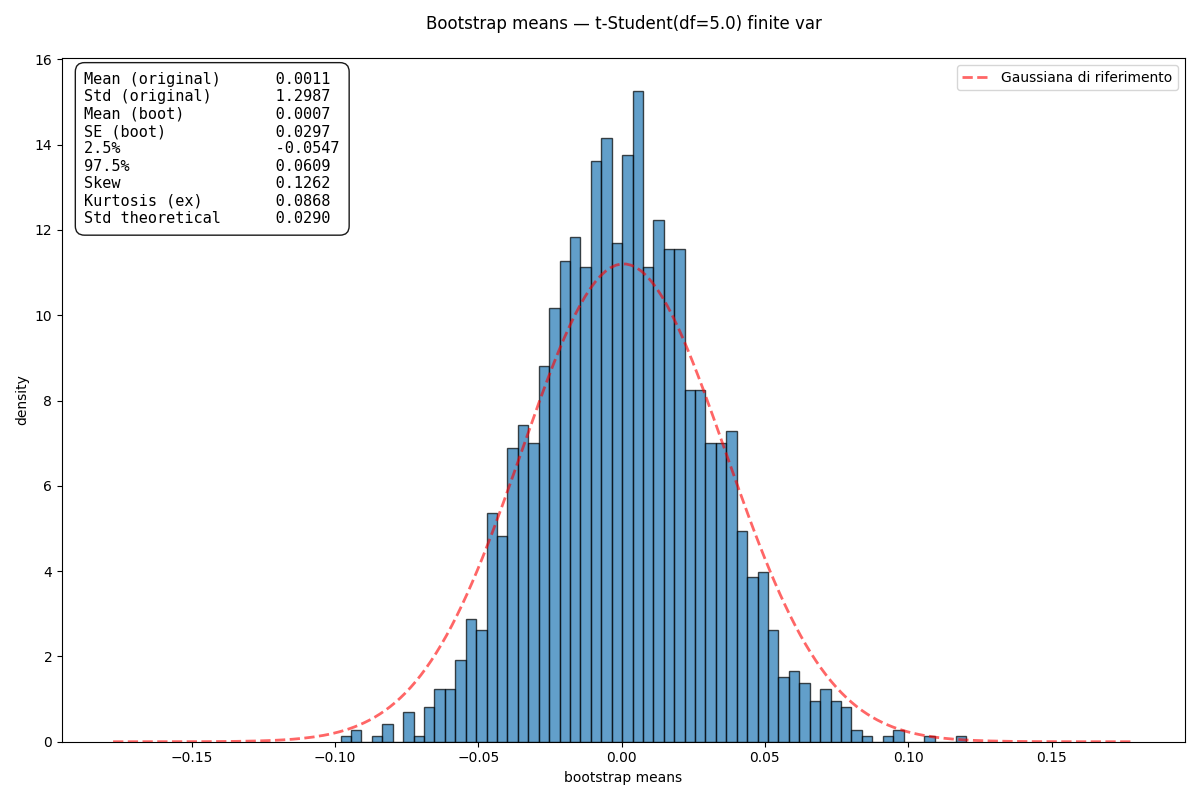
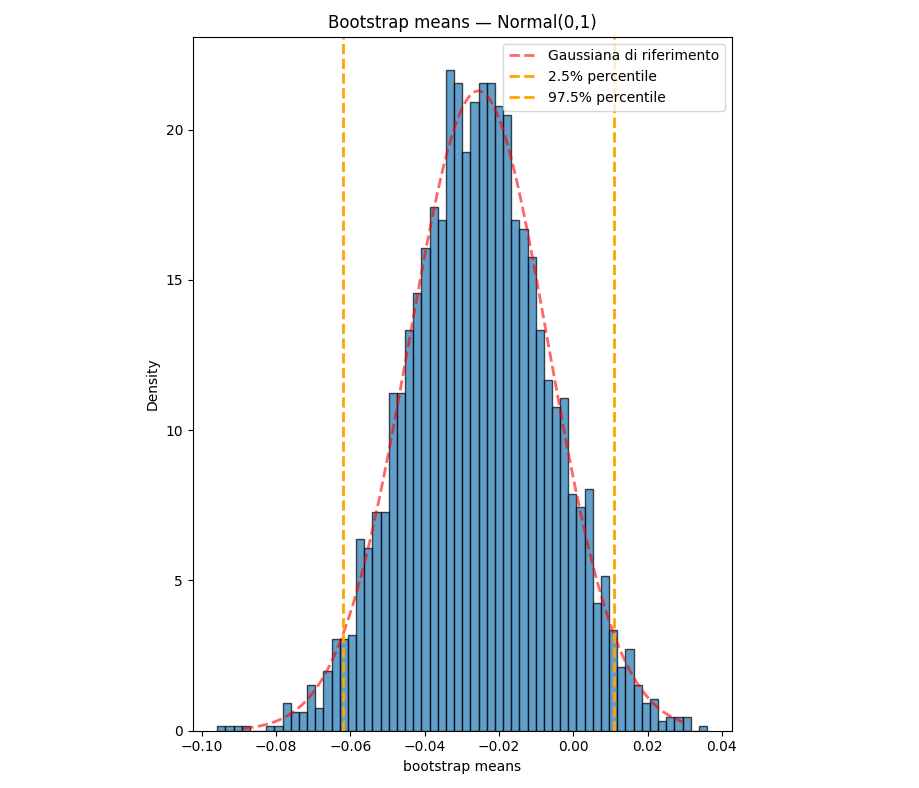
add pics and refined assignment

diff --git a/Assignment-Memory.py b/Assignment-Memory.py
@@ -2,6 +2,7 @@ import numpy as np
 import matplotlib.pyplot as plt
 from scipy import stats
 from scipy.linalg import toeplitz, cholesky
+from scipy.stats import norm
 
 rng = np.random.default_rng(42)
 
@@ -15,7 +16,7 @@ def bootstrap_means(x, B, rng=None):
     idx = rng.integers(0, n, size=(B, n))
     return x[idx].mean(axis=1)
 
-def summarize_bootstrap(means, label, original=None):
+def summarize_bootstrap(means, label, original=None, population=None):
     boot_mean = float(np.mean(means))
     boot_std = float(np.std(means, ddof=1))
     summary = {
@@ -34,6 +35,11 @@ def summarize_bootstrap(means, label, original=None):
             "original_mean": float(np.mean(original)),
             "original_std": float(sd),
             "std_theoretical": float(sd / np.sqrt(l))
+        })
+    if population is not None:
+        summary.update({
+            "population_mean": float(np.mean(population)),
+            "population_std": float(np.std(population, ddof=0))
         })
     return summary
 
@@ -58,25 +64,61 @@ def print_summary(summary):
     for key, label in keys:
         print(f"{label:<20} {fmt(summary.get(key))}")
 
-# Plot  
-def plot_means(title, means, bins=60):
+# Plot 
+def _fmt(x): return f"{x:.4f}" if (x is not None) else "—"
+
+def plot_with_stats(title, means, summary, bins=60):
     plt.figure(figsize=(12, 8))
     plt.hist(means, bins=bins, density=True, alpha=0.7, edgecolor="black")
 
     mu, sigma = np.mean(means), np.std(means, ddof=1)
-    x_vals = np.linspace(np.percentile(means, 0.1), np.percentile(means, 99.9), 300)
-    plt.plot(x_vals, stats.norm.pdf(x_vals, mu, sigma), 'r--', lw=2, alpha=0.6, label="Gaussiana di riferimento")
+    x_vals = np.linspace(mu - 6*sigma, mu + 6*sigma, 200)
+    plt.plot(x_vals, norm.pdf(x_vals, mu, sigma*1.2), 'r--', lw=2, alpha=0.6, label="Gaussiana di riferimento")
 
-    # percentili 2.5 e 97.5
-    plt.axvline(np.percentile(means, 2.5), color='orange', linestyle='--', lw=2, label='2.5% percentile')
-    plt.axvline(np.percentile(means, 97.5), color='orange', linestyle='--', lw=2, label='97.5% percentile')
+    # percentile lines (2.5% and 97.5%)
+    p_low = np.percentile(means, 2.5)
+    p_high = np.percentile(means, 97.5)
+    plt.axvline(p_low, color='orange', linestyle='--', lw=2, label='2.5% percentile')
+    plt.axvline(p_high, color='orange', linestyle='--', lw=2, label='97.5% percentile')
 
-    plt.title(f"Bootstrap means — {title}")
+    # optional: annotate percentile values slightly above x-axis
+    ymin, ymax = plt.gca().get_ylim()
+    y_annot = ymax * 0.08  # place annotation a bit above the x-axis
+    plt.text(p_low, y_annot, f"{p_low:.4f}", rotation=90, va='bottom', ha='right', color='orange', fontsize=9, family='monospace')
+    plt.text(p_high, y_annot, f"{p_high:.4f}", rotation=90, va='bottom', ha='left', color='orange', fontsize=9, family='monospace')
+
+    rows = []
+    if summary.get("population_mean") is not None:
+        rows.append(("Mean (population)", summary["population_mean"]))
+        rows.append(("Std (population)", summary["population_std"]))
+    if summary.get("original_mean") is not None:
+        rows.append(("Mean (original)", summary["original_mean"]))
+        rows.append(("Std (original)", summary["original_std"]))
+    rows += [
+        ("Mean (boot)", summary.get("boot_mean_of_means")),
+        ("SE (boot)", summary.get("boot_se")),
+        ("2.5%", summary.get("p2.5")),
+        ("97.5%", summary.get("p97.5")),
+        ("Skew", summary.get("skew")),
+        ("Kurtosis (ex)", summary.get("kurtosis_excess")),
+    ]
+    if summary.get("std_theoretical") is not None:
+        rows.append(("Std theoretical", summary["std_theoretical"]))
+
+    stats_text = "\n".join([f"{k:<20} {_fmt(v)}" for k,v in rows])
+    plt.text(0.02, 0.98, stats_text,
+             transform=plt.gca().transAxes,
+             fontsize=11, fontfamily="monospace",
+             va="top", ha="left",
+             bbox=dict(boxstyle="round,pad=0.6",
+                       facecolor="white", edgecolor="black", alpha=0.9))
+    plt.title(f"Bootstrap means — {title}\n")
     plt.xlabel("bootstrap means")
-    plt.ylabel("Density")
+    plt.ylabel("density")
     plt.legend()
     plt.tight_layout()
     plt.show()
+
 
 # ------------------------------  
 # Processi con memoria  
@@ -96,6 +138,10 @@ def fgn(n, hurst, rng=None):
 
 experiments = []
 
+# Uniform IID
+x = rng.uniform(-2,2,n)
+m = bootstrap_means(x,B,rng)
+experiments.append((m, summarize_bootstrap(m,"IID Uniform",original=x)))
 # OU
 for theta in [0.01, 1.2, 2]:
     x = ornstein_uhlenbeck(n, theta=theta, rng=rng)
@@ -112,5 +158,7 @@ for H in [0.5, 0.75, 0.99999]:
 # Esegui esperimenti  
 # ------------------------------  
 for means, summary in experiments:
-    print_summary(summary)
-    plot_means(summary["label"], means)
+    print_summary(summary)             # stampa ordinata su console
+    # chiamata corretta alla funzione di plotting che usa summary
+    plot_with_stats(summary["label"], means, summary, bins)
+

diff --git a/Assignment-Divergence.py b/Assignment-Divergence.py
@@ -5,7 +5,7 @@ from scipy.stats import norm
 
 rng = np.random.default_rng(42)
 
-n = 30000    # sample size
+n = 3000    # sample size
 B = 3000      # bootstrap replicates
 bins = 60      # histogram bins
 
@@ -15,7 +15,7 @@ def bootstrap_means(x, B, rng=None):
     idx = rng.integers(0, n, size=(B, n))
     return x[idx].mean(axis=1)
 
-def summarize_bootstrap(means, label, original=None):
+def summarize_bootstrap(means, label, original=None, population=None):
     boot_mean = float(np.mean(means))
     boot_std = float(np.std(means, ddof=1))
     summary = {
@@ -34,6 +34,11 @@ def summarize_bootstrap(means, label, original=None):
             "original_mean": float(np.mean(original)),
             "original_std": float(sd),
             "std_theoretical": float(sd / np.sqrt(l))
+        })
+    if population is not None:
+        summary.update({
+            "population_mean": float(np.mean(population)),
+            "population_std": float(np.std(population, ddof=0))
         })
     return summary
 
@@ -59,24 +64,60 @@ def print_summary(summary):
         print(f"{label:<20} {fmt(summary.get(key))}")
 
 # Plot 
-def plot_means(title, means, bins=60):
+def _fmt(x): return f"{x:.4f}" if (x is not None) else "—"
+
+def plot_with_stats(title, means, summary, bins=60):
     plt.figure(figsize=(12, 8))
     plt.hist(means, bins=bins, density=True, alpha=0.7, edgecolor="black")
 
     mu, sigma = np.mean(means), np.std(means, ddof=1)
-    x_vals = np.linspace(np.percentile(means,0.1), np.percentile(means,99.9), 300)
-    plt.plot(x_vals, norm.pdf(x_vals, mu, sigma), 'r--', lw=2, alpha=0.6, label="Gaussiana di riferimento")
+    x_vals = np.linspace(mu - 6*sigma, mu + 6*sigma, 200)
+    plt.plot(x_vals, norm.pdf(x_vals, mu, sigma*1.2), 'r--', lw=2, alpha=0.6, label="Gaussiana di riferimento")
 
-    # percentili
-    plt.axvline(np.percentile(means, 2.5), color='orange', linestyle='--', lw=2, label='2.5% percentile')
-    plt.axvline(np.percentile(means, 97.5), color='orange', linestyle='--', lw=2, label='97.5% percentile')
-    
-    plt.title(f"Bootstrap means — {title}")
+    # percentile lines (2.5% and 97.5%)
+    p_low = np.percentile(means, 2.5)
+    p_high = np.percentile(means, 97.5)
+    plt.axvline(p_low, color='orange', linestyle='--', lw=2, label='2.5% percentile')
+    plt.axvline(p_high, color='orange', linestyle='--', lw=2, label='97.5% percentile')
+
+    # optional: annotate percentile values slightly above x-axis
+    ymin, ymax = plt.gca().get_ylim()
+    y_annot = ymax * 0.08  # place annotation a bit above the x-axis
+    plt.text(p_low, y_annot, f"{p_low:.4f}", rotation=90, va='bottom', ha='right', color='orange', fontsize=9, family='monospace')
+    plt.text(p_high, y_annot, f"{p_high:.4f}", rotation=90, va='bottom', ha='left', color='orange', fontsize=9, family='monospace')
+
+    rows = []
+    if summary.get("population_mean") is not None:
+        rows.append(("Mean (population)", summary["population_mean"]))
+        rows.append(("Std (population)", summary["population_std"]))
+    if summary.get("original_mean") is not None:
+        rows.append(("Mean (original)", summary["original_mean"]))
+        rows.append(("Std (original)", summary["original_std"]))
+    rows += [
+        ("Mean (boot)", summary.get("boot_mean_of_means")),
+        ("SE (boot)", summary.get("boot_se")),
+        ("2.5%", summary.get("p2.5")),
+        ("97.5%", summary.get("p97.5")),
+        ("Skew", summary.get("skew")),
+        ("Kurtosis (ex)", summary.get("kurtosis_excess")),
+    ]
+    if summary.get("std_theoretical") is not None:
+        rows.append(("Std theoretical", summary["std_theoretical"]))
+
+    stats_text = "\n".join([f"{k:<20} {_fmt(v)}" for k,v in rows])
+    plt.text(0.02, 0.98, stats_text,
+             transform=plt.gca().transAxes,
+             fontsize=11, fontfamily="monospace",
+             va="top", ha="left",
+             bbox=dict(boxstyle="round,pad=0.6",
+                       facecolor="white", edgecolor="black", alpha=0.9))
+    plt.title(f"Bootstrap means — {title}\n")
     plt.xlabel("bootstrap means")
-    plt.ylabel("Density")
+    plt.ylabel("density")
     plt.legend()
     plt.tight_layout()
     plt.show()
+
 
 # ------------------------------
 # 2) Lista esperimenti
@@ -118,4 +159,5 @@ for alpha in [0.4,1.0,5.0,20.0]:
 # ------------------------------
 for means, summary in experiments:
     print_summary(summary)             # stampa ordinata su console
-    plot_means(summary["label"], means)  # plot uguale a prima
+    # chiamata corretta alla funzione di plotting che usa summary
+    plot_with_stats(summary["label"], means, summary, bins)
